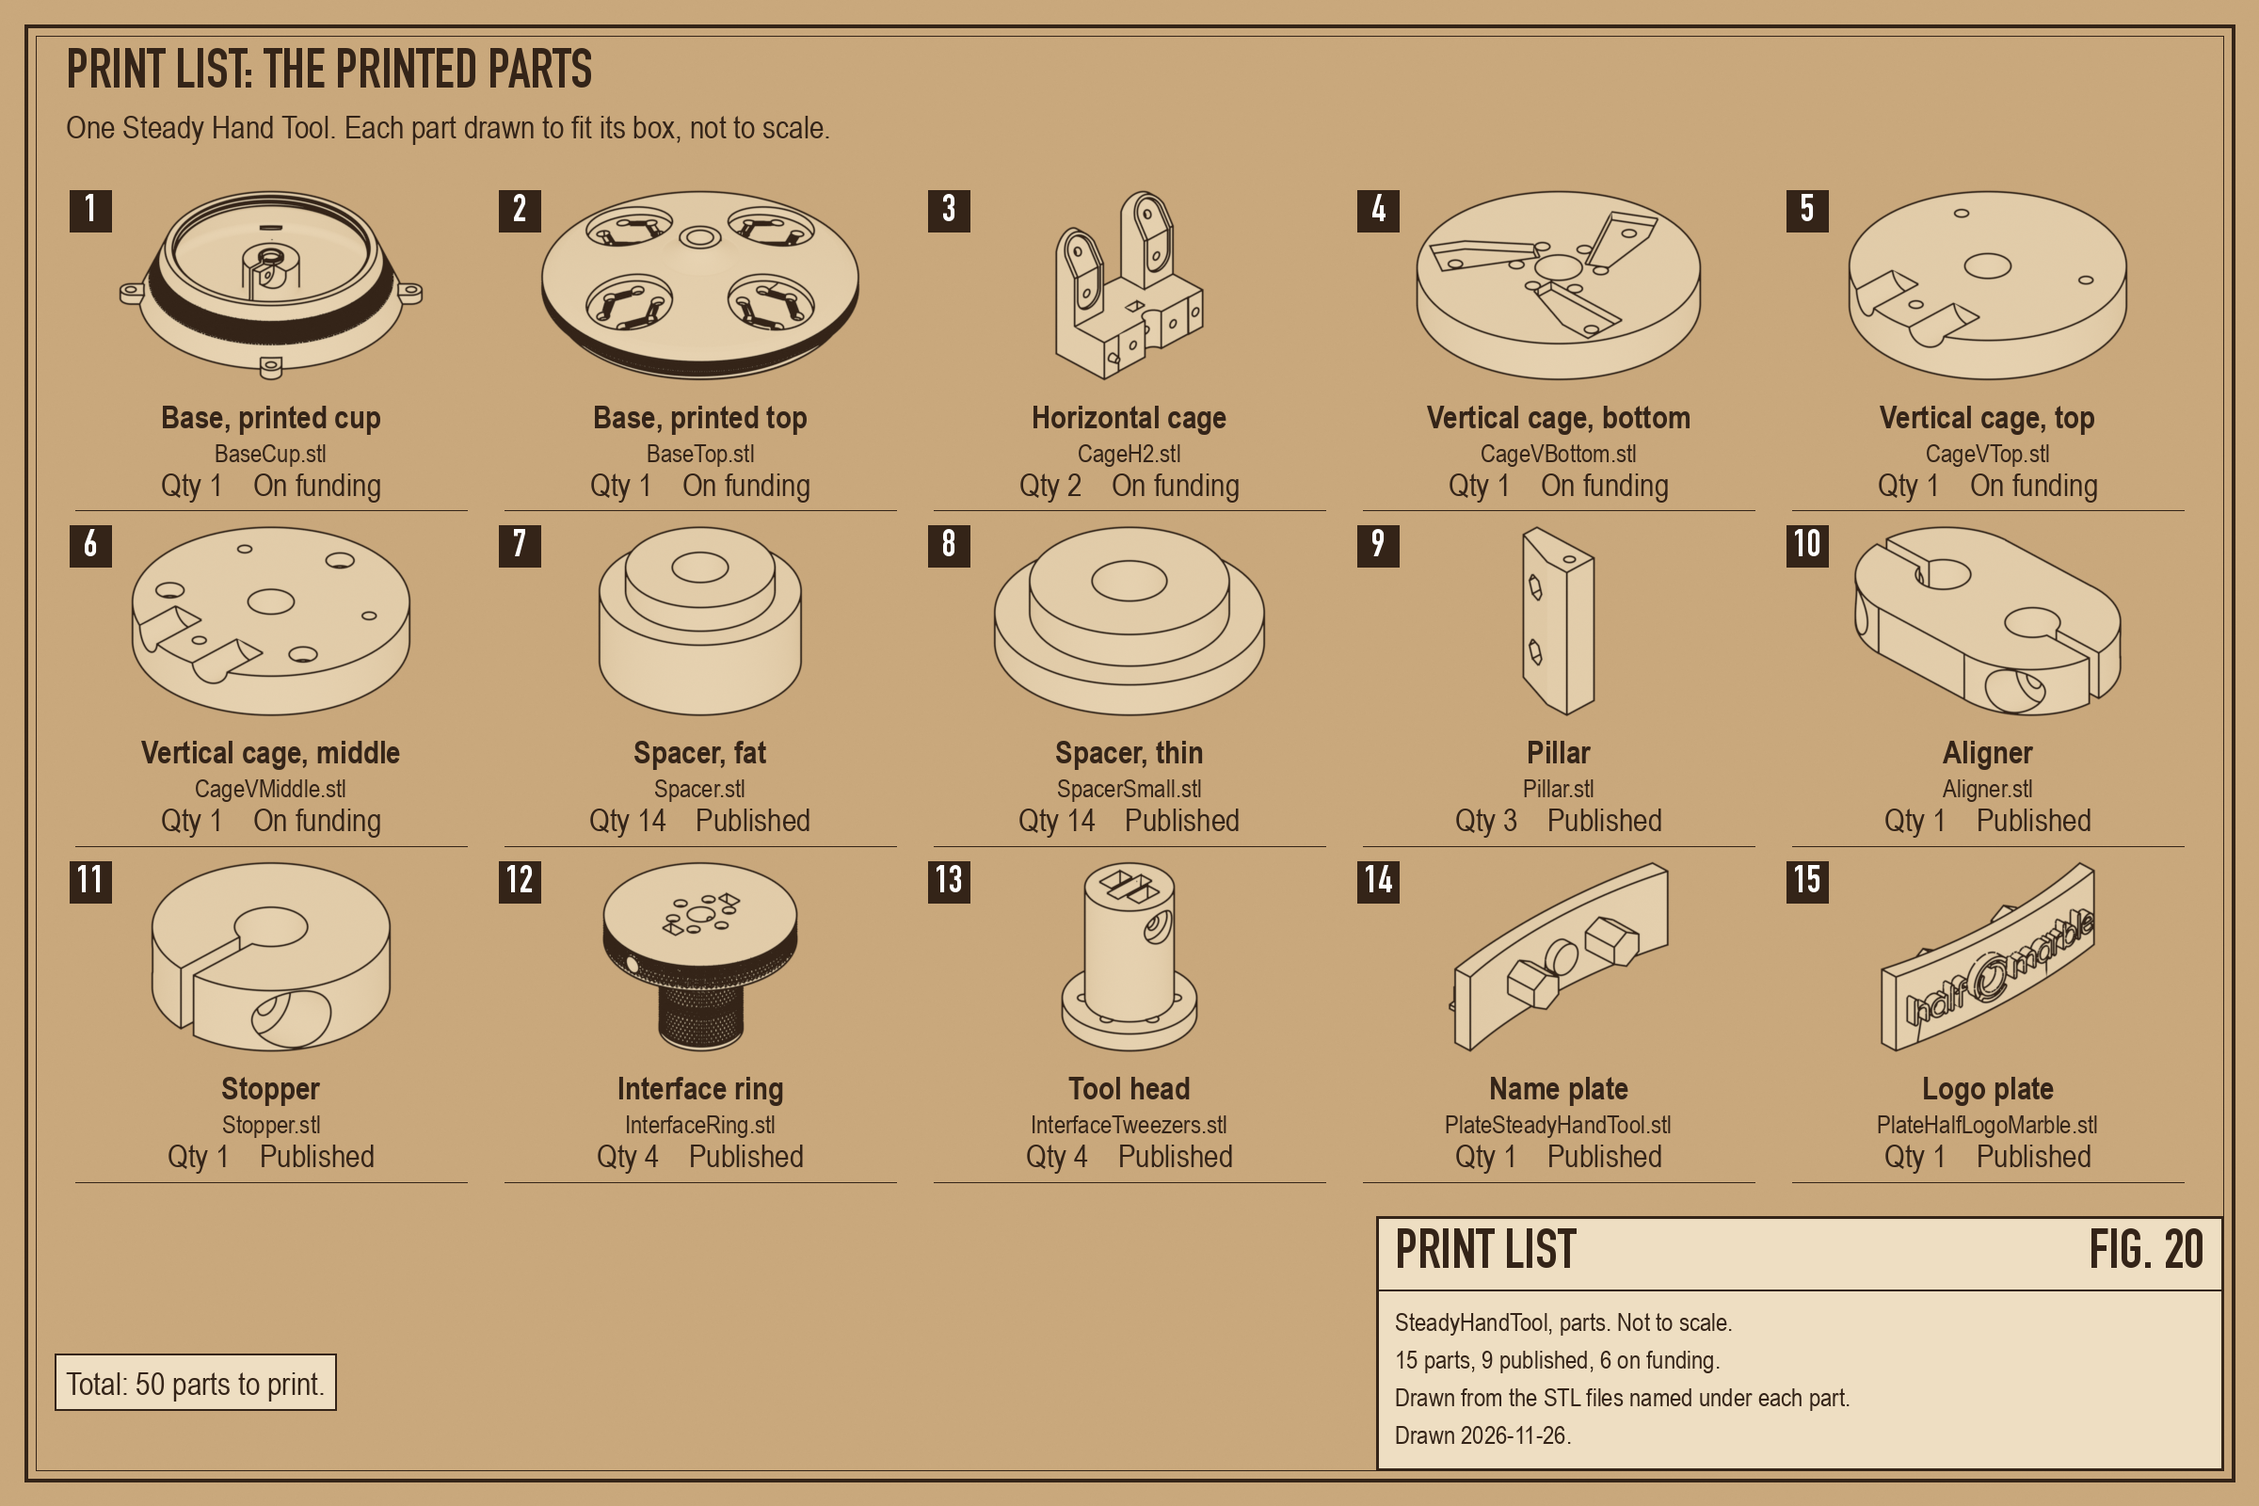
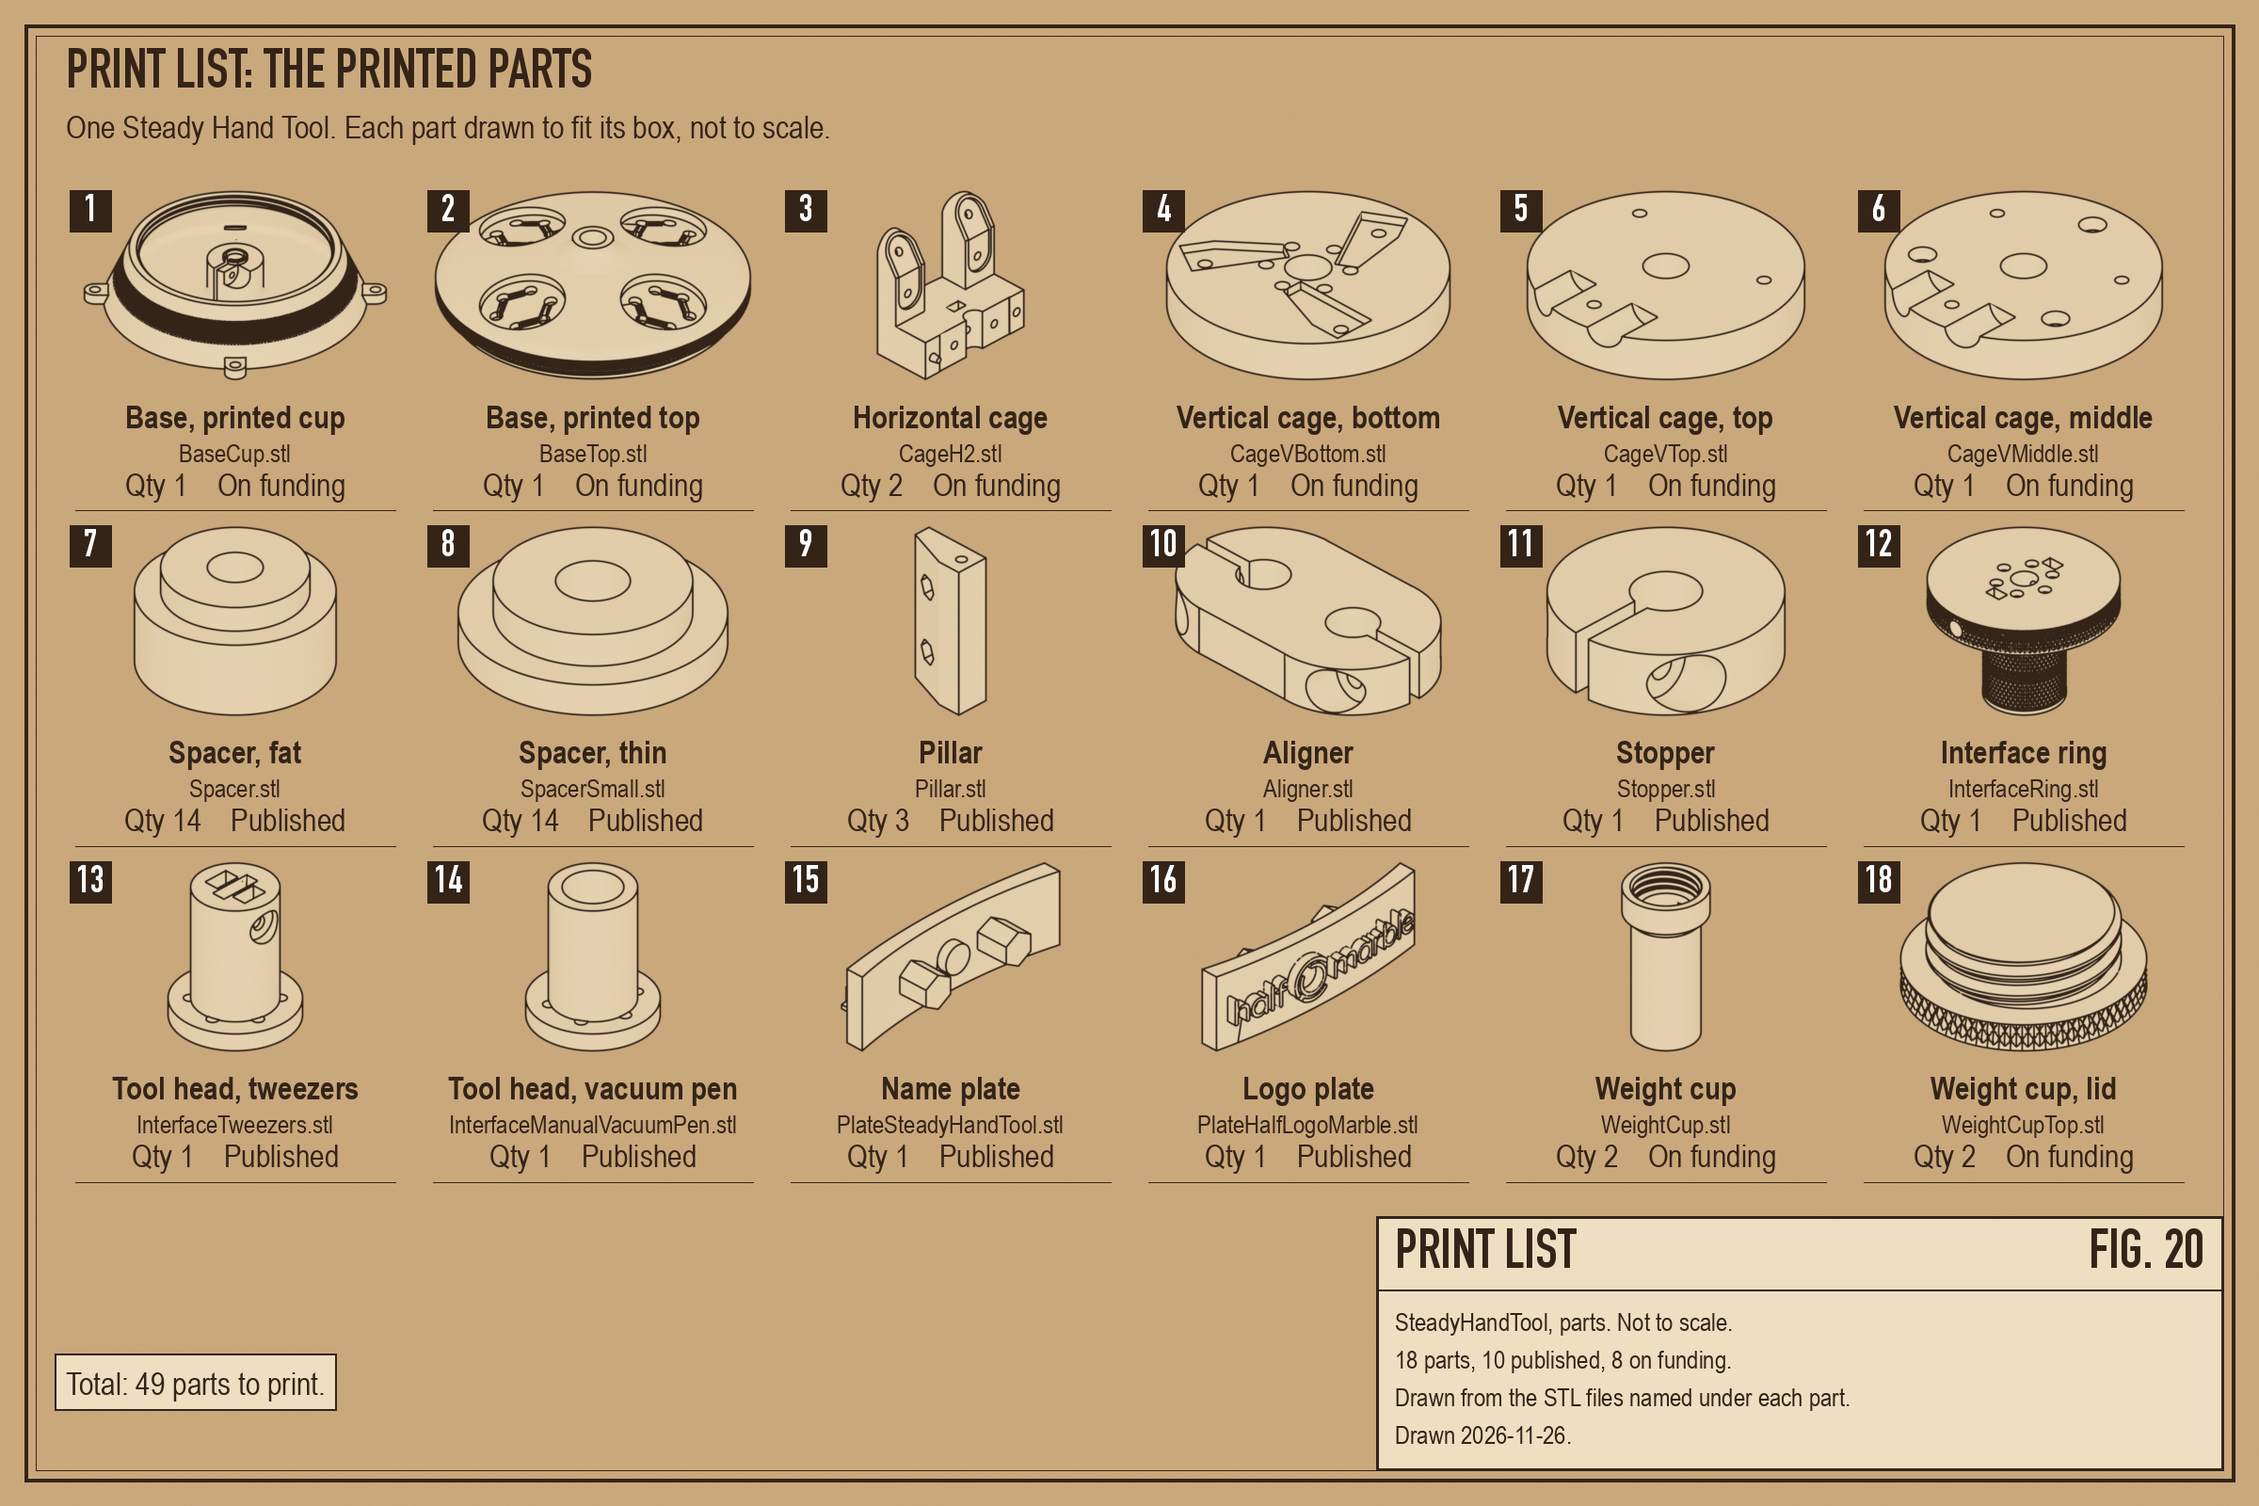
Update kit counts
One interface ring, one tweezers head, one vacuum pen head and two
weight cups per tool: BOM, assembly guide, print list, magnets guide,
Figs. 15, 19 and 20.

Changed region(s): [[0.0312, 0.125, 0.9688, 0.7812], [0.6562, 0.875, 0.75, 0.9062]]

diff --git a/docs/magnets.md b/docs/magnets.md
@@ -6,7 +6,7 @@ This document starts with the first, because nothing after it works on a seat th
 tight or too loose, and then fixes the second. It holds:
 
 - how to dial in your printer with the two magnet coupons (section 1),
-- the polarity rule, the bench process that puts all 102 magnets of a kit in with the same
+- the polarity rule, the bench process that puts all 78 magnets of a kit in with the same
   polarity, and an optional guide for the base's tool pockets (the magnet rig).
 
 **Where to start.** Print the two coupons and dial in your printer (section 1). For one part, then
@@ -148,14 +148,17 @@ it presents S either way. Rule of thumb: **fixed side → N pusher, removable si
 | Array | Magnets per part | Per kit | Pole it presents | Pattern | Pusher | Drawing |
 | :--- | :---: | :---: | :---: | :--- | :--- | :---: |
 | Base, each of the four tool pockets | 6 | 4 × 6 = 24 | **N** (up) | ⌀18 mm bolt circle, 60° apart | N (red) | [Fig. 5](illustrations/fig_5_base_top.png) |
-| Tool head (tweezers, vacuum pen, or one of your own) | 6 | 4 × 6 = 24 | **S** | ⌀18 mm bolt circle, 60° apart | S (blue) | [Figs. 6-8](illustrations/fig_6_head_tweezers.png) |
-| Interface ring, bottom face | 6 | 4 × 6 = 24 | **N** (down) | ⌀18 mm bolt circle, 60° apart | N (red) | [Fig. 9](illustrations/fig_9_ring_bottom.png) |
-| Interface ring, top face | 6 | 4 × 6 = 24 | **S** (up) | ⌀18 mm bolt circle, 60° apart | S (blue) | [Fig. 10](illustrations/fig_10_ring_top.png) |
+| Tool head (tweezers and vacuum pen) | 6 | 2 × 6 = 12 | **S** | ⌀18 mm bolt circle, 60° apart | S (blue) | [Figs. 6-8](illustrations/fig_6_head_tweezers.png) |
+| Interface ring, bottom face | 6 | 1 × 6 = 6 | **N** (down) | ⌀18 mm bolt circle, 60° apart | N (red) | [Fig. 9](illustrations/fig_9_ring_bottom.png) |
+| Interface ring, top face | 6 | 1 × 6 = 6 | **S** (up) | ⌀18 mm bolt circle, 60° apart | S (blue) | [Fig. 10](illustrations/fig_10_ring_top.png) |
 | Vertical cage dock | 6 | 1 × 6 = 6 | **N** (down) | ⌀18 mm bolt circle, 60° apart | N (red) | [Fig. 11](illustrations/fig_11_dock.png) |
-| | | **102** | | | | |
+| | | **54** | | | | |
 
-The magnets are ⌀4 × 2 mm neodymium throughout. One tool takes 102: 24 in the base, 24 in four
-tool heads, 48 in four interface rings and 6 in the vertical cage (the [BOM](BOM.md)).
+The magnets are ⌀4 × 2 mm neodymium throughout. The arrays above take 54: 24 in the base, 12 in the two
+tool heads, 12 in the interface ring and 6 in the vertical cage. The aligner, the stopper and the two
+weight cups take six each, 24 more, so one tool takes 78 (the [BOM](BOM.md)). The published aligner
+and stopper have no seats yet: their seated versions and the weight cups come with the next release,
+and this guide will add their arrays then.
 
 ![Fig. 2, the arrays and one seat](illustrations/fig_2_seat.png)
 
@@ -230,8 +233,8 @@ That leaves three ways to get the polarity wrong, and this document closes each 
    little small. If the magnets do not go in, clear the hole with a 4.0 mm drill turned by hand,
    only down to the bottom of the hole: the outer magnet's face must end up level with the tip's
    face. Let two magnets snap together into a short stack, put a drop of glue in the pocket and
-   press the stack in. The four tip magnets come from the spares: the [BOM](BOM.md) lists 120
-   magnets for the 102 seats.
+   press the stack in. The four tip magnets come from the spares: the [BOM](BOM.md) lists 90
+   magnets for the 78 seats.
 3. **Check its pole with a compass before the glue sets.** First make sure the compass points
    north when nothing magnetic is near. Then bring the tip in slowly from the side of the needle,
    from about 10 cm away, and stop as soon as the needle moves. **The N pusher's tip must pull
@@ -358,8 +361,8 @@ them while the top is screwed on. If one goes in the wrong way, stop, and do not
 the face: with the top unscrewed and the shot cleared from its underside, try pushing it out
 through its air-relief hole with a pin.
 
-**Whole-kit check, last:** every tool head into every base pocket (16 pairs) and onto every ring
-(16 pairs), and every ring onto the dock (4 pairs): each must snap flat at any rotation.
+**Whole-kit check, last:** each of the two tool heads into every base pocket (8 pairs) and onto the
+ring (2 pairs), and the ring onto the dock (1 pair): each must snap flat at any rotation.
 
 ## 8. The drawings
 

diff --git a/docs/BOM.md b/docs/BOM.md
@@ -17,19 +17,19 @@ The Steady Hand Tool is designed for easy sourcing. You can find the links and v
 | :---: | :--- | :--- | :--- |
 | <img src="images/rods.jpg" width="100"> | [**Carbon Fiber Rods**](https://www.amazon.com/dp/B0CXP6992R) | 8mm Diameter x 300mm | 2 horizontal rails, 1 vertical mast, 1 vertical tool rod. **4 required** |
 | <img src="images/bearings.jpg" width="100"> | [**MR128ZZ Bearings**](https://www.amazon.com/dp/B075CM2XNJ) | 8 x 12 x 3.5mm | Frictionless carriage movement. **14 required** |
-| <img src="images/magnets.jpg" width="100"> | [**Magnets**](https://www.amazon.com/dp/B08NZS7WBK) | 4mm x 2mm Neodymium | Magnetic tool coupler interface. **Orientation matters** — see the [magnets guide](magnets.md). **102 required**, buy at least 120 |
+| <img src="images/magnets.jpg" width="100"> | [**Magnets**](https://www.amazon.com/dp/B08NZS7WBK) | 4mm x 2mm Neodymium | Magnetic tool coupler interface. **Orientation matters** — see the [magnets guide](magnets.md). **78 required**, buy at least 90 |
 | <img src="images/weights.jpg" width="100"> | [**Steel balls**](https://www.amazon.com/dp/B00JZ18B1A) | 1/4 inch | Round steel shot, about **660 g** per base: fills the printed base to **785 g** with its 24 magnets seated. |
 
-**Magnet count, broken down:** 24 in the base (four tool pockets, six each), 24 in the four
-tool adapters (six each), 48 in the four interface rings (six on the bottom face and six on the
-top of each) and 6 in the vertical cage — 102 in total. Buy 120; they are
-small, and one will find the floor.
+**Magnet count, broken down:** 24 in the base (four tool pockets, six each), 12 in the two tool
+heads (tweezers and vacuum pen, six each), 12 in the interface ring (six on the bottom face and six
+on the top), 6 in the vertical cage, 6 in the aligner, 6 in the stopper and 12 in the two weight
+cups (six each) — 78 in total. Buy 90; they are small, and one will find the floor.
 
 ### 🔩 Fasteners
 
 | Image | Item | Specification | Purpose |
 | :---: | :--- | :--- | :--- |
-| <img src="images/hardware-m3.jpg" width="100"> | [**M3 Hardware**](https://www.amazon.com/dp/B0F4XNN1T3) | Stainless steel. 39 x M3 16mm, 8 x M3 8mm, and 41 M3 nuts | Structural assembly of the arm and the base's rod clamp |
+| <img src="images/hardware-m3.jpg" width="100"> | [**M3 Hardware**](https://www.amazon.com/dp/B0F4XNN1T3) | Stainless steel. 33 x M3 16mm, 2 x M3 8mm, and 29 M3 nuts | Structural assembly of the arm and the base's rod clamp |
 
 Buy a few spares of each size. **One M3x16 and its nut go into the base**, where they close the
 clamp on the vertical mast; every other one goes into the arm. The step-by-step breakdown is in the
@@ -47,14 +47,16 @@ printed parts are in the [print list](print.md).
 | Vertical cage, bottom | 1 | – | 3 | – | 6 |
 | Vertical cage, middle | 1 | – | 3 | 3 | – |
 | Vertical cage, top | 1 | – | 3 | – | – |
-| Aligner (horizontal stop) | 1 | – | 2 | 2 | – |
-| Stopper (vertical stop) | 1 | – | 1 | 1 | – |
-| Interface ring | 4 | – | 2 each = 8 | 2 each = 8 | 12 each = 48 |
-| Tool head (tweezers) | 4 | 2 each = 8 | – | 2 each = 8 | 6 each = 24 |
+| Aligner (horizontal stop) | 1 | – | 2 | 2 | 6 |
+| Stopper (vertical stop) | 1 | – | 1 | 1 | 6 |
+| Interface ring | 1 | – | 2 | 2 | 12 |
+| Tool head (tweezers) | 1 | 2 | – | 2 | 6 |
+| Tool head (vacuum pen) | 1 | – | – | – | 6 |
+| Weight cup | 2 | – | – | – | 6 each = 12 |
 | Base | 1 | – | 1 | 1 | 24 |
-| **Total** | | **8** | **39** | **41** | **102** |
+| **Total** | | **2** | **33** | **29** | **78** |
 
-- 14 of the 39 M3x16 go through the bearing sets: 8 in the two horizontal cages and 6 in the
+- 14 of the 33 M3x16 go through the bearing sets: 8 in the two horizontal cages and 6 in the
   pillars. Of the cages' other 4, two join the two cages to each other and one in each cage
   clamps the vertical mast.
 - The 3 M3x16 of the **Vertical cage, bottom** and the 3 M3x16 of the **Vertical cage, middle** form
@@ -65,6 +67,7 @@ printed parts are in the [print list](print.md).
   mast. Tighten it before any shot goes into the open BaseCup; the clamp ends up under the shot.
   See [Step 1 of the assembly guide](assembly-guide.md#step-1-base).
 - The M3x8 and their nuts clamp the tweezers. A vacuum-pen or template head takes none.
+- The interface ring stays on the tool; the tool heads come off it.
 
 ### 🔧 Tools
 

diff --git a/docs/assembly-guide.md b/docs/assembly-guide.md
@@ -20,7 +20,7 @@ Every bolt and nut is M3. Before starting, sort the bolts into piles by length:
 These are the totals the steps below actually consume. Count them out before you start — it is
 much easier than discovering a shortfall at Step 12.
 
-![Fig. 19, fasteners: M3 x 8 mm bolts (8), M3 x 16 mm bolts (39) and M3 nuts (41), with the steps that use them](illustrations/fig_19_fasteners.png)
+![Fig. 19, fasteners: M3 x 8 mm bolts (2), M3 x 16 mm bolts (33) and M3 nuts (29), with the steps that use them](illustrations/fig_19_fasteners.png)
 
 Buy a couple of spares of each. They are small, they cost cents, and one will find the floor.
 
@@ -88,15 +88,15 @@ Buy a couple of spares of each. They are small, they cost cents, and one will fi
 * Install the stop onto the vertical rod to limit the tool's travel.
 
 ### Step 11: Interface Ring
-* **Parts:** 8x M3x16 bolts and 8x M3 nuts: 2 for each of the 4 rings.
-* Secure each of the four rings that interface with the tool heads.
+* **Parts:** 2x M3x16 bolts and 2x M3 nuts.
+* Secure the ring that the tool heads couple to. It stays on the tool: the heads come off it, the ring does not.
 
 ![Fig. 15, interface ring: clamp bolts](illustrations/fig_15_ring.png)
 
 ### Step 12: Tool Interface
-* **Parts:** 2x M3x8 bolts and 2x M3 nuts for each tweezers head: 8 of each for the four heads in
-  the [print list](print.md). A vacuum-pen or template head takes none.
-* Fit them to each tweezers head; they clamp the tweezers in the head's slot.
+* **Parts:** 2x M3x8 bolts and 2x M3 nuts for the tweezers head in the [print list](print.md).
+  The vacuum-pen head, or a template head, takes none.
+* Fit them to the tweezers head; they clamp the tweezers in the head's slot.
 
 ![Fig. 16, tweezers head: clamp bolts](illustrations/fig_16_head.png)
 

diff --git a/docs/print.md b/docs/print.md
@@ -4,14 +4,16 @@ Every 3D-printed part of one Steady Hand Tool, and how many copies to print. Fas
 rods, magnets and the base ballast are not printed: they are in the [BOM](BOM.md), and the
 fastener counts are in the [assembly guide](assembly-guide.md#-preparation-fasteners-sorting).
 
-![Fig. 20, print list: the 15 printed parts, with file name, quantity (50 in all) and whether each is published](illustrations/fig_20_partsheet_print.png)
+![Fig. 20, print list: the 18 printed parts, with file name, quantity (49 in all) and whether each is published](illustrations/fig_20_partsheet_print.png)
 
 - **Base.** Print the BaseCup and the BaseTop (assembly guide, Step 1 and Fig. 13). The
   ballast, 1/4 in steel balls filled by weight, is in the BOM.
 - **Spacers.** One fat and one thin spacer per bearing set, 14 sets.
-- **Tool heads.** Four, one for each pocket in the base. Any of them can be
-  `InterfaceManualVacuumPen.stl` instead, or a head of your own made from `InterfaceTemplate.stl`.
+- **Tool heads.** Two: one tweezers head and one vacuum-pen head. The base's four pockets hold
+  whichever is not on the ring. A head of your own can be made from `InterfaceTemplate.stl`.
   Every head has to follow the [magnets guide](magnets.md).
+- **Interface ring.** One. It stays on the tool; the heads come off it.
+- **Weight cups.** Two, each with its screw-on lid.
 - **Optional.** The adapter for the third-party PixelPump pen in `hardware/models/3rdParty/` is
   not counted above.
 - **On funding** parts are not in this repository yet. Every 3D model is published when the

diff --git a/hardware/models/stl/README.md b/hardware/models/stl/README.md
@@ -26,15 +26,16 @@ list for everything you cannot print.
 Adapters for third-party tools are one level up, in [`3rdParty/`](../3rdParty). Print plates, which
 carry orientation and slicer settings rather than geometry, are in [`3mf/`](../3mf).
 
-## Not in this folder yet: the carriage and the base
+## Not in this folder yet: the carriage, the base and the weight cups
 
-Six printable parts are still to come, so you will not find them here:
+Eight printable parts are still to come, so you will not find them here:
 
 | Part | Where it is used |
 | :--- | :--- |
 | Horizontal cage | Assembly guide, Steps 5–6 |
 | Vertical cage — three parts | Steps 7–8 |
 | Base — the printed cup and screw-in top, filled with steel shot to 785 g | Step 1 |
+| Weight cup and its screw-on lid, two of each | [Print list](../../../docs/print.md) |
 
 **Every 3D model will be published when the campaign funds** — that is the commitment, and it is
 part of what backing it pays for.

diff --git a/README.md b/README.md
@@ -97,6 +97,7 @@ steady-hand-tool/
 | Horizontal cage | ⏳ On funding | Assembly guide, Steps 5–6 |
 | Vertical cage — three parts | ⏳ On funding | Steps 7–8 |
 | Base — printed cup and screw-in top | ⏳ On funding | Filled with steel shot to 785 g (Step 1) |
+| Weight cup and its screw-on lid, two of each | ⏳ On funding | [Print list](docs/print.md) |
 
 Quantities per tool are in the [assembly guide](docs/assembly-guide.md), not repeated here.
 
